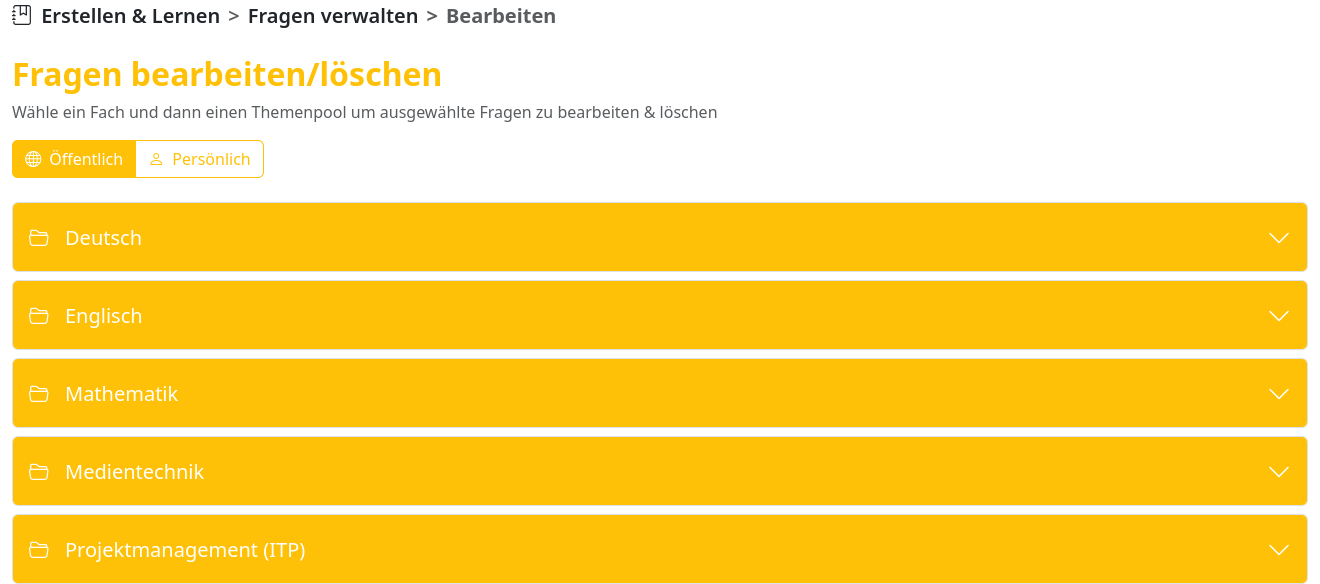
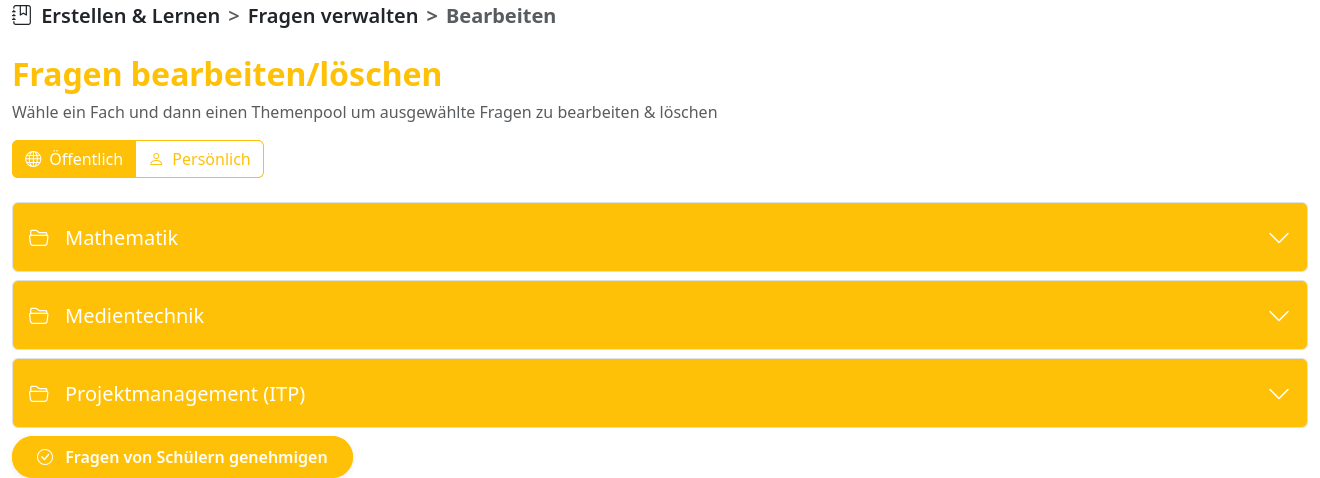
praktischer teil + backend u frontend kurzer teil

diff --git a/subsections/usecase_fragenkonf.tex b/subsections/usecase_fragenkonf.tex
@@ -1,0 +1,67 @@
+\setauthor{\firstauthor}
+\subsection{Fragenkonfigurator}
+Das Fragen-System der Matura-Vorbereitungsplattform ermöglicht den Nutzern, gezielt Fragen zu erstellen, zu verwalten und zum Lernen zu verwenden. Dabei unterscheiden sich die Rechte der Akteure deutlich:
+
+\subsubsection{Schüler:innen-/User-Rechte}
+\begin{itemize}
+    \item Schüler:innen haben eingeschränkte Rechte innerhalb des Systems.
+    \item Sie können eigene Fragen erstellen. Dabei haben sie zwei Möglichkeiten:
+    \begin{itemize}
+        \item \textbf{Private Fragen:} Diese bleiben nur für die/den jeweilige:n Schüler:in sichtbar und dienen zur persönlichen Vorbereitung.
+        \item \textbf{Fragen mit Freigabeanfrage:} Schüler:innen können beim Erstellen einer Frage direkt eine Freigabe anfragen, damit diese von Admins geprüft und möglicherweise öffentlich gemacht wird.
+    \end{itemize}
+    \item Schüler:innen können ihre eigenen privaten Fragen bearbeiten und löschen.
+    \item Alle öffentlichen Fragen sind für Schüler:innen sichtbar, können jedoch nur von Admins bearbeitet oder gelöscht werden.
+    \item Beim Lernen können Schüler:innen zwischen öffentlichen Fragen und ihren eigenen privaten Fragen wählen.
+    \item Der Lernmodus gibt keine Rückmeldung über richtige oder falsche Antworten, um ein stressfreies Wiederholen zu ermöglichen (in der Diplomarbeit \textit{Maturatrainer} ist die Überprüfung der Antworten im Lernmodus jedoch implementiert).
+\end{itemize}
+
+\subsubsection{Admin-Rechte}
+\begin{itemize}
+    \item Admins haben vollen Zugriff auf den öffentlichen Fragenpool.
+    \item Sie können:
+    \begin{itemize}
+        \item neue öffentliche Fragen direkt erstellen,
+        \item neue private Fragen für sich selbst erstellen,
+        \item alle öffentlichen Fragen bearbeiten oder löschen,
+        \item eigene private Fragen bearbeiten oder löschen,
+        \item Fragen von Schüler:innen, für die eine Freigabe angefragt wurde, prüfen und öffentlich machen.
+    \end{itemize}
+    \item Admins haben Zugriff auf alle öffentlichen Fragen sowie auf Fragen, für die eine Freigabe angefragt wurde.
+    \item Sie verwalten die Qualität und Sichtbarkeit der öffentlichen Inhalte im System.
+\end{itemize}
+
+\subsubsection{Funktionale Übersicht}
+\begin{itemize}
+    \item \textbf{Fragen erstellen:}
+    \begin{itemize}
+        \item Admins: können öffentliche Fragen direkt erstellen oder private Fragen für sich selbst.
+        \item Schüler:innen: können private Fragen erstellen oder Fragen mit Freigabeanfrage erstellen.
+    \end{itemize}
+
+    \item \textbf{Fragen bearbeiten/löschen:}
+    \begin{itemize}
+        \item Admins: können alle öffentlichen Fragen sowie eigene private Fragen bearbeiten oder löschen.
+        \item Schüler:innen: können nur ihre eigenen privaten Fragen bearbeiten oder löschen.
+    \end{itemize}
+
+    \item \textbf{Fragen freigeben:}
+    \begin{itemize}
+        \item Schüler:innen können beim Erstellen einer Frage eine Freigabe anfragen.
+        \item Nur Admins können angefragte Fragen prüfen und bei öffentlich machen.
+    \end{itemize}
+
+    \item \textbf{Fragen anzeigen:}
+    \begin{itemize}
+        \item Öffentliche Fragen sind für alle Nutzer:innen sichtbar.
+        \item Schüler:innen sehen zusätzlich ihre eigenen privaten Fragen.
+        \item Admins sehen alle öffentlichen Fragen, Fragen mit Freigabeanfragen und eigene private Fragen.
+    \end{itemize}
+
+    \item \textbf{Fragen lernen:}
+    \begin{itemize}
+        \item Alle Nutzer:innen können Fragen im Lernmodus durchgehen.
+        \item Schüler:innen können zwischen öffentlichen und ihren eigenen privaten Fragen wechseln.
+        \item Der Lernprozess erfolgt ohne Rückmeldung über richtig oder falsch.
+    \end{itemize}
+\end{itemize}

diff --git a/subsections/usecases.tex b/subsections/usecases.tex
@@ -1,67 +1,15 @@
-\setauthor{\firstauthor}
 \begin{figure}[h t]
     \centering
     \includegraphics[width=0.95\textwidth]{pics/usecase.png}
     \caption{Usecases Fragenkonfigurator}
 \end{figure}
 
-\setauthor{\firstauthor}
-\subsection{Fragenkonfigurator}
-Das Fragen-System der Matura-Vorbereitungsplattform ermöglicht den Nutzern, gezielt Fragen zu erstellen, zu verwalten und zum Lernen zu verwenden. Dabei unterscheiden sich die Rechte der Akteure deutlich:
+% usecase Fragenkonfigurator
+% Isabella
+\input{./subsections/usecase_fragenkonf.tex}
 
-\subsubsection{Schüler:innen-/User-Rechte}
-\begin{itemize}
-    \item Schüler:innen haben eingeschränkte Rechte innerhalb des Systems.
-    \item Sie können eigene Fragen erstellen, bearbeiten und löschen, solange diese privat sind.
-    \item Von Schüler:innen erstellte Fragen sind standardmäßig privat und nur für die/den jeweilig:e Schüler:in sichtbar.
-    \item Lehrer:innen (Admins) können diese Fragen prüfen und bei Bedarf öffentlich freigeben, sodass sie für alle Nutzer:innen sichtbar werden.
-    \item Beim Lernen können Schüler:innen zwischen öffentlichen Fragen und ihren eigenen privaten Fragen wählen.
-    \item Der Lernmodus gibt keine Rückmeldung über richtige oder falsche Antworten, um ein stressfreies Wiederholen zu ermöglichen (in der Diplomarbeit *Maturatrainer* ist die Überprüfung der Antworten im Lernmodus jedoch implementiert).
-\end{itemize}
-
-\subsubsection{Lehrer:innen-/Admin-Rechte}
-\begin{itemize}
-    \item Lehrer:innen besitzen Adminrechte und haben somit vollen Zugriff auf den Fragenpool.
-    \item Sie können:
-    \begin{itemize}
-        \item neue Fragen erstellen,
-        \item bestehende Fragen bearbeiten oder löschen,
-        \item Schüler:innenfragen prüfen und öffentlich freigeben oder privat belassen.
-    \end{itemize}
-    \item Lehrer:innen können den gesamten Fragenpool (öffentliche und private Fragen) einsehen.
-    \item Sie verwalten die Qualität und Sichtbarkeit der Inhalte im System.
-\end{itemize}
-
-\subsubsection{Funktionale Übersicht}
-\begin{itemize}
-    \item Fragen erstellen:
-    \begin{itemize}
-        \item Lehrer:innen (Admins): können neue Fragen anlegen.
-        \item Schüler:innen: können eigene private Fragen anlegen.
-    \end{itemize}
-    \item Fragen bearbeiten/löschen:
-    \begin{itemize}
-        \item Lehrer:innen (Admins): dürfen alle Fragen bearbeiten oder löschen.
-        \item Schüler:innen: dürfen nur ihre eigenen privaten Fragen bearbeiten oder löschen.
-    \end{itemize}
-    \item Fragen freigeben:
-    \begin{itemize}
-        \item Nur Lehrer:innen (Admins) dürfen Schüler:innenfragen öffentlich machen.
-    \end{itemize}
-    \item Fragen anzeigen:
-    \begin{itemize}
-        \item Öffentliche Fragen sind für alle Nutzer:innen sichtbar.
-        \item Schüler:innen sehen zusätzlich ihre eigenen privaten Fragen.
-    \end{itemize}
-    \item Fragen lernen:
-    \begin{itemize}
-        \item Alle Nutzer:innen können Fragen im Lernmodus durchgehen.
-        \item Schüler:innen können zwischen öffentlichen und privaten Fragen wechseln.
-        \item Der Lernprozess erfolgt ohne Rückmeldung über richtig oder falsch.
-    \end{itemize}
-\end{itemize}
-
-
+% usecase Maturaupload
+% Lien
 \setauthor{\secondauthor}
 \subsection{Maturaupload}
 Der Maturaupload ermöglicht es den Nutzer:innen, das Hochladen, Verändern und Löschen von Mitschriften innerhalb der Plattform. Ziel ist es, das Lernmaterial zentral zu sammeln und durch Lehrer:innen geprüfte Inhalte, für andere Nutzer:innen bereitzustellen. Dabei wird in unterschiedliche Rechte für Schüler:innen und Lehrer:innen unterschieden:

diff --git a/subsections/personal_place.tex b/subsections/personal_place.tex
@@ -1,11 +1,26 @@
 \setauthor{\firstauthor}
-Über die Navigationsleiste im oberen Bereich der Anwendung gelangt der/die Nutzer:in durch einen Klick auf das Personen-Symbol zum persönlichen Bereich.
+Über die Navigationsleiste im oberen Bereich der Anwendung gelangt der/die Nutzer:in durch einen Klick auf das Personen-Symbol zum persönlichen Bereich.\par
+Im persönlichen Bereich werden eine Willkommensnachricht sowie die Nutzerdaten angezeigt. Über den Logout-Button kann die aktive Sitzung beendet werden. 
+Anschließend wird der/die Nutzer:in zum Anmeldebildschirm zurückgeleitet.
 
-Im persönlichen Bereich werden eine Willkommensnachricht sowie die Nutzerdaten (Name und Klasse) angezeigt. Über den Logout-Button kann die aktive Sitzung beendet werden. Anschließend wird der/die Nutzer:in zum Anmeldebildschirm zurückgeleitet. 
+\subsection{Ansicht als Schüler:in}
+Schüler:innen sehen im persönlichen Bereich ausschließlich ihre Nutzerdaten und den Logout-Button.
 
 \begin{figure}[H]
     \centering
-    \includegraphics[width=0.6\textwidth]{pics/persoenlicher_bereich.png}
-    \caption{Persönlicher Bereich}
-    \label{fig:persoenlicher-bereich}
+    \includegraphics[width=0.6\textwidth]{pics/persoenlicher_bereich_schueler.png}
+    \caption{Persönlicher Bereich: Schüler:in}
+    \label{fig:persoenlicher-bereich-schueler}
+\end{figure}
+
+\subsection{Ansicht als Administrator:in}
+Administrator:innen haben zusätzlich Zugriff auf den Button \textit{„Fragen genehmigen"}, 
+der oberhalb des Logout-Buttons angezeigt wird. Dieser Button führt zur Freigabeverwaltung \ref{sec:fragen-genehmigen}, 
+in der alle zur Freigabe angefragten Fragen eingesehen und bearbeitet werden können.
+
+\begin{figure}[H]
+    \centering
+    \includegraphics[width=0.6\textwidth]{pics/persoenlicher_bereich_admin.png}
+    \caption{Persönlicher Bereich: Administrator:in mit Freigabe-Button}
+    \label{fig:persoenlicher-bereich-admin}
 \end{figure}

diff --git a/sections/backend-frontend.tex b/sections/backend-frontend.tex
@@ -13,7 +13,7 @@ des Content-Management-Systems (Maturaupload, Fragenkonfigurator) als auch die d
 
 Eine detaillierte Analyse der Backend-Technologien findet sich in der Diplomarbeit des Partnerteams.
 \section{Frontend}
-Das Frontend der LearnHub-Plattform wurde mit \textbf{Angular} entwickelt, einem TypeScript-basierten Framework 
+Das Frontend der LearnHub-Plattform wurde mit \textbf{Angular} entwickelt, einem Type\-Script-ba\-sier\-ten Framework 
 für Single-Page-Applications (SPAs). Angular bietet eine strukturierte Architektur, die besonders für komplexe 
 Webanwendungen geeignet ist. \cite{angular}
 
@@ -133,7 +133,7 @@ da alle Komponenten selbst erstellt werden müssen. Angular Material wäre techn
 allerdings war das Framework zu Projektbeginn dem Team noch nicht bekannt.
 
 \paragraph{Praktische Erwägungen}
-Ein ausschlaggebender Faktor bei der Wahl des UI-Frameworks war die bisherige Erfahrung des Entwicklerteams. 
+Ein Faktor bei der Wahl des UI-Frameworks war die bisherige Erfahrung des Entwicklerteams. 
 Bootstrap wurde bereits im Unterricht behandelt und in kleineren Projekten eingesetzt. Dadurch konnte auf 
 vorhandenes Wissen zurückgegriffen werden, was den Einstieg erleichterte und die Entwicklungsgeschwindigkeit förderte.
 
